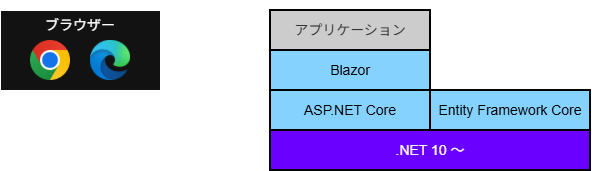
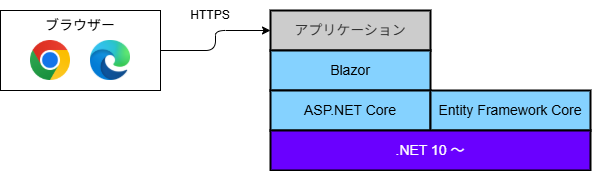
Blazor → Blazor Server に変更

diff --git a/documents/contents/app-architecture/overview/application-structure.md b/documents/contents/app-architecture/overview/application-structure.md
@@ -24,7 +24,7 @@ Vue.js を用いた SPA の構成をとります。
 
 ## Web アプリケーション ( サーバーサイドレンダリング ) {#server-side-rendering}
 
-ビューエンジンとして Blazor を利用します。
+ビューエンジンとして Blazor Server を利用します。
 データアクセスには Entity Framework Core を利用します。
 
 ![サーバーサイドレンダリング アプリケーションスタック](../../images/app-architecture/overview/server-side-rendering-maris-light.png#only-light){ loading=lazy }
